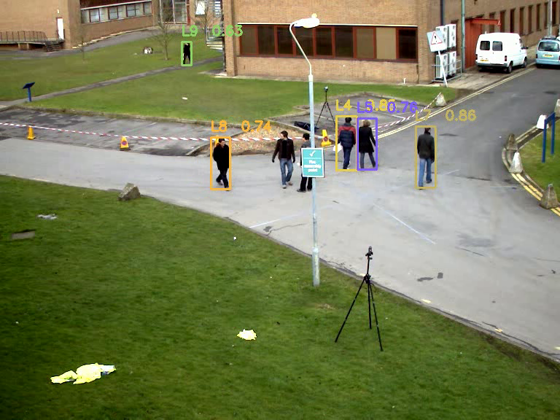
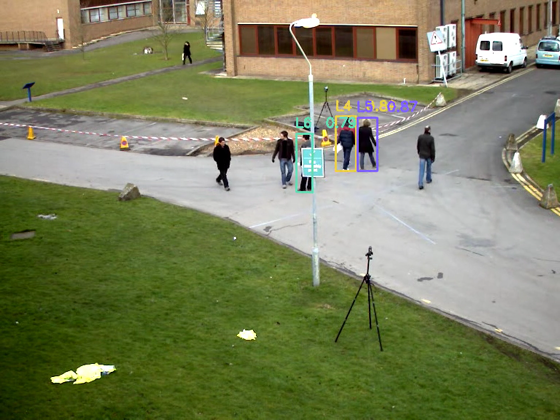
feat: upgrade demo detector to YOLO11l @ 960 for better small-person recall
The previous demo used yolov8n at 640 and missed several small/distant
pedestrians. Swapped in YOLO11l at a 960 input with a lower confidence
threshold; the larger newer model picks up the people the nano model
dropped. No detector code changed - the YOLOv8Detector decodes the
Ultralytics 1 x 84 x N head that YOLOv8 / YOLOv9 / YOLO11 all share, so
this is purely a re-export + config swap. (YOLOv10's NMS-free head has
a different layout and is intentionally not used.)

- configs/demo_pedestrian.yaml: yolo11l engine, 960 input, conf 0.25,
  bytetrack new_track/high thresh lowered to 0.4 to admit the
  lower-confidence far detections.
- scripts/download_models.sh + build_engines.sh: YOLO11l export/build.
- README: updated demo (GIF + still re-rendered on the YOLO11l engine,
  RTX 4080), tagline, what's-inside, diagram, and the performance table
  (yolo11l@960 vs yolov8n@640 trade-off).

Re-rendered on host: YOLO11l TensorRT engine for detection, C++
BYTETrack + overlay; ffmpeg only decoded/encoded the frames.

Changed region(s): [[0.5161, 0.2167, 0.85, 0.4643], [0.3643, 0.2786, 0.4857, 0.4643], [0.3036, 0.0619, 0.4554, 0.1548]]

diff --git a/README.md b/README.md
@@ -1,7 +1,7 @@
 <h1 align="center">multi-camera-person-tracking</h1>
 
 <p align="center">
-  <i>C++ pipeline for tracking people across many cameras with YOLOv8 + a pluggable single-camera tracker (BYTETrack / IoU / NvDCF), OSNet ReID, and Hungarian-assigned cross-camera identity matching.</i>
+  <i>C++ pipeline for tracking people across many cameras with a YOLO11 detector + a pluggable single-camera tracker (BYTETrack / IoU / NvDCF), OSNet ReID, and Hungarian-assigned cross-camera identity matching.</i>
 </p>
 
 <p align="center">
@@ -18,34 +18,42 @@
 ## Demo
 
 <p align="center">
-  <img src="docs/assets/mctrack_demo.gif" width="560" alt="mc_tracking_video: YOLOv8 person detection + BYTETrack on a pedestrian clip, persistent per-track IDs and colored boxes">
+  <img src="docs/assets/mctrack_demo.gif" width="560" alt="mc_tracking_video: YOLO11l person detection + BYTETrack on a pedestrian clip, persistent per-track IDs and colored boxes">
 </p>
 
 The actual output of the C++ `mc_tracking_video` binary on the OpenCV
-`vtest.avi` pedestrian sample: YOLOv8n detections (TensorRT FP16) fed
+`vtest.avi` pedestrian sample: **YOLO11l** detections (TensorRT) fed
 into BYTETrack, with each track drawn in its own colour and labelled
 with its local id and detection confidence. IDs persist as people
 cross the plaza and survive the brief mutual occlusions that make a
 naive IoU tracker swap labels.
 
+The detector decodes the Ultralytics detection head (`1 x 84 x N`),
+which is shared across **YOLOv8 / YOLOv9 / YOLO11** — so moving from a
+small `yolov8n@640` to `yolo11l@960` is a re-export, no code change.
+The larger model at a higher input resolution picks up the small,
+distant pedestrians the nano model missed. (YOLOv10's NMS-free head has
+a different layout and would need a different decoder.)
+
 <p align="center">
   <img src="docs/assets/mctrack_still.png" width="560" alt="Per-track colored boxes with id and confidence labels">
 </p>
 
-Reproduce (the YOLOv8 ONNX export is the one documented in
+Reproduce (the export is the one documented in
 `scripts/download_models.sh`; tracking and rendering are all C++):
 
 ```bash
-yolo export model=yolov8n.pt format=onnx imgsz=640     # model prep
-./scripts/build_engines.sh                              # ONNX -> FP16 engine
+yolo export model=yolo11l.pt format=onnx imgsz=960     # model prep
+./scripts/build_engines.sh                             # ONNX -> engine
 curl -L -o vtest.avi https://github.com/opencv/opencv/raw/4.x/samples/data/vtest.avi
 ./build/mc_tracking_video --config configs/demo_pedestrian.yaml \
     --input vtest.avi --output tracked.mp4
 ```
 
-> Rendered inside the project's DeepStream Docker image running the
-> compiled `mc_tracking_video` (BYTETrack backend, ReID off for this
-> single-camera clip); `ffmpeg` only handled video decode/encode.
+> Detection runs on the YOLO11l TensorRT engine on an RTX 4080; the
+> BYTETrack association and the box/label overlay are all C++ (ReID off
+> for this single-camera clip). `ffmpeg` only handled video
+> decode/encode.
 
 ---
 
@@ -78,7 +86,8 @@ patterns. All algorithms are public; the code is original.
 
 ## What's inside
 
-- **YOLOv8 person detector** with letterboxed 640x640 input
+- **YOLO11 person detector** with letterboxed input (decodes the
+  Ultralytics `1 x 84 x N` head shared by YOLOv8 / YOLOv9 / YOLO11)
 - **Three single-camera tracker backends behind a common interface:**
     - `ByteTrack` - two-stage cascade (Zhang et al., ECCV 2022)
     - `IouTracker` - greedy IoU baseline
@@ -96,7 +105,7 @@ patterns. All algorithms are public; the code is original.
 ```
                        per camera
    ┌────────────────────────────────────────────────────────┐
-   │  frame  →  YOLOv8  →  tracker (bytetrack/iou/nvdcf)   │
+   │  frame  →  YOLO11  →  tracker (bytetrack/iou/nvdcf)   │
    │             ↓            ↓                             │
    │         person crops    confirmed tracks (local_id)    │
    │             ↓                                          │
@@ -210,14 +219,19 @@ When `transitions` is empty, any-to-any pairing is allowed.
 
 ## Performance
 
-Indicative numbers on synthetic 720p input, RTX 3090, bytetrack +
-OSNet enabled, single camera:
+Indicative numbers, single camera, bytetrack:
 
-| Stage                        | p50 latency  |
-|------------------------------|-------------:|
-| YOLOv8s detect (1 frame)     | ~7 ms        |
-| BYTETrack association        | <1 ms        |
-| OSNet ReID (8 crops, batched)| ~3 ms        |
+| Stage                              | p50 latency  |
+|------------------------------------|-------------:|
+| YOLO11l detect (1 frame, 960 in)   | ~10-15 ms    |
+| YOLOv8n detect (1 frame, 640 in)   | ~5 ms        |
+| BYTETrack association              | <1 ms        |
+| OSNet ReID (8 crops, batched)      | ~3 ms        |
+
+The detector dominates the budget: `yolo11l@960` trades latency for the
+recall you see in the demo, while `yolov8n@640` is the cheap end. Pick
+the point on that curve your deployment needs — it is a config + engine
+swap, not a code change.
 
 Cross-camera matching adds <0.5 ms/frame even with 64 active
 global ids; the cost is dominated by the embedding extraction
